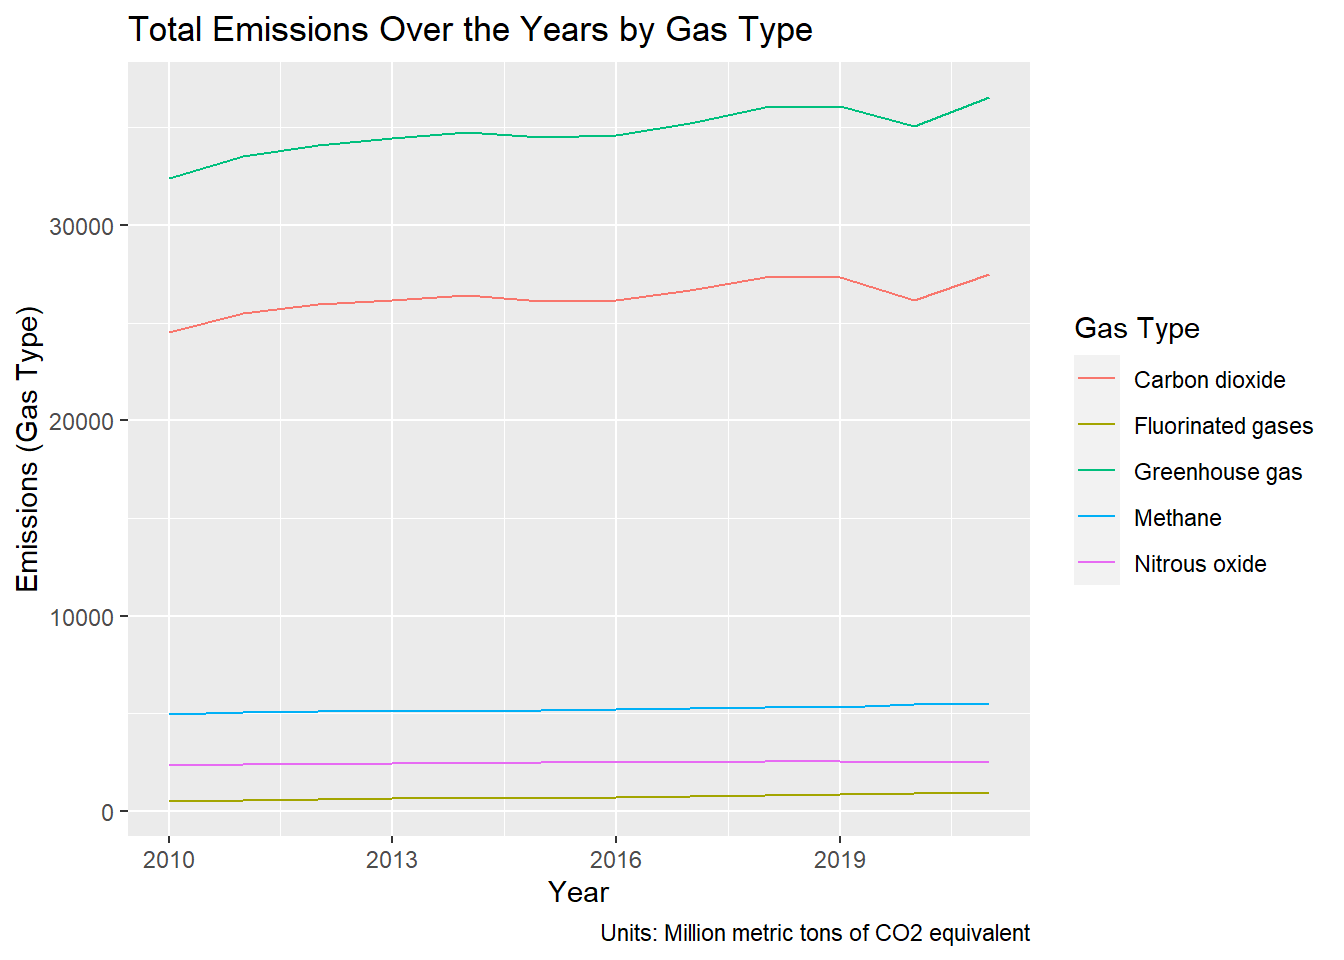
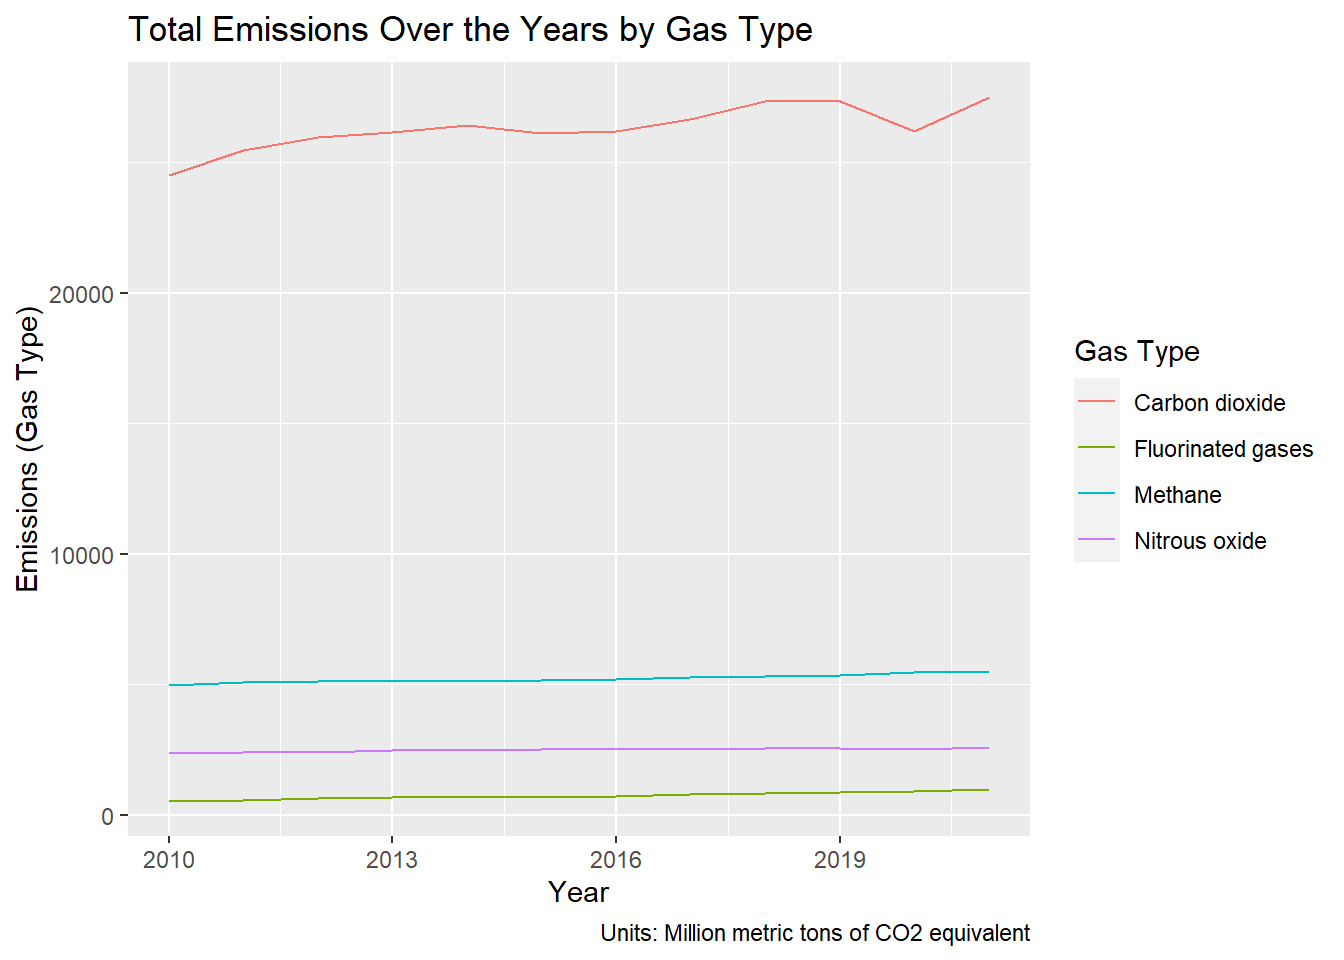
update datastory

diff --git a/datastory.html b/datastory.html
@@ -7,7 +7,7 @@
 <meta name="viewport" content="width=device-width, initial-scale=1.0, user-scalable=yes">
 
 
-<title>Ho Zhi Yi - Who’s responsible?</title>
+<title>Ho Zhi Yi - Greenhouse Gas Emissions Trend</title>
 <style>
 code{white-space: pre-wrap;}
 span.smallcaps{font-variant: small-caps;}
@@ -125,6 +125,11 @@ ul.task-list li input[type="checkbox"] {
   <li><a href="#gas-type-against-time" id="toc-gas-type-against-time" class="nav-link" data-scroll-target="#gas-type-against-time">2. Gas Type against Time</a></li>
   <li><a href="#region-against-time" id="toc-region-against-time" class="nav-link" data-scroll-target="#region-against-time">3. Region against Time</a></li>
   </ul></li>
+  <li><a href="#bar-plots" id="toc-bar-plots" class="nav-link" data-scroll-target="#bar-plots">Bar Plots</a>
+  <ul class="collapse">
+  <li><a href="#gas-type-against-industry" id="toc-gas-type-against-industry" class="nav-link" data-scroll-target="#gas-type-against-industry">1. Gas Type against Industry</a></li>
+  <li><a href="#gas-type-against-region" id="toc-gas-type-against-region" class="nav-link" data-scroll-target="#gas-type-against-region">2. Gas Type against Region</a></li>
+  </ul></li>
   </ul></li>
   </ul>
 </nav>
@@ -134,7 +139,7 @@ ul.task-list li input[type="checkbox"] {
 
 <header id="title-block-header" class="quarto-title-block default">
 <div class="quarto-title">
-<h1 class="title">Who’s responsible?</h1>
+<h1 class="title">Greenhouse Gas Emissions Trend</h1>
 </div>
 
 
@@ -160,17 +165,12 @@ ul.task-list li input[type="checkbox"] {
 <p>We will be analyzing Greenhouse Gas Emissions Trends based on the Industry, Region and Gas Types shown in the table below:</p>
 <table class="table">
 <colgroup>
-<col style="width: 59%">
-<col style="width: 15%">
-<col style="width: 24%">
+<col style="width: 33%">
+<col style="width: 66%">
 </colgroup>
 <tbody>
 <tr class="odd">
 <td><strong>Industry</strong></td>
-<td><strong>Region</strong></td>
-<td><strong>Gas Types</strong></td>
-</tr>
-<tr class="even">
 <td><ol type="1">
 <li>Manufacturing</li>
 <li>Electricity, Gas, Steam and Air Conditioning Supply</li>
@@ -178,6 +178,9 @@ ul.task-list li input[type="checkbox"] {
 <li>Agriculture, Forestry and Fishing</li>
 <li>Construction</li>
 </ol></td>
+</tr>
+<tr class="even">
+<td><strong>Region</strong></td>
 <td><ol type="1">
 <li>Africa</li>
 <li>Americas</li>
@@ -185,10 +188,12 @@ ul.task-list li input[type="checkbox"] {
 <li>Europe</li>
 <li>Oceania</li>
 </ol></td>
+</tr>
+<tr class="odd">
+<td><strong>Gas Types</strong></td>
 <td><ol type="1">
 <li>Carbon dioxide</li>
 <li>Fluorinated gases</li>
-<li>Greenhouse gas</li>
 <li>Methane</li>
 <li>Nitrous oxide</li>
 </ol></td>
@@ -245,9 +250,24 @@ ul.task-list li input[type="checkbox"] {
 <h4 class="anchored" data-anchor-id="emissions-over-the-years-by-region">Emissions Over the Years by Region</h4>
 <iframe height="400" width="105%" frameborder="no" src="https://zhizyii.shinyapps.io/shinyapp3/">
 </iframe>
-
-
 </section>
+</section>
+</section>
+<section id="bar-plots" class="level2">
+<h2 class="anchored" data-anchor-id="bar-plots">Bar Plots</h2>
+<section id="gas-type-against-industry" class="level3">
+<h3 class="anchored" data-anchor-id="gas-type-against-industry">1. Gas Type against Industry</h3>
+<p>From the plots below, we can see how the total emissions of each gas type vary across different industries.</p>
+<iframe height="400" width="105%" frameborder="no" src="https://zhizyii.shinyapps.io/shinyapp4/">
+</iframe>
+</section>
+<section id="gas-type-against-region" class="level3">
+<h3 class="anchored" data-anchor-id="gas-type-against-region">2. Gas Type against Region</h3>
+<p>From the plots below, we can see how the total emissions of each gas type vary across different regions.</p>
+<iframe height="400" width="105%" frameborder="no" src="https://zhizyii.shinyapps.io/shinyapp6/">
+</iframe>
+
+
 </section>
 </section>
 </section>

diff --git a/finalproject.html b/finalproject.html
@@ -117,6 +117,9 @@ ul.task-list li input[type="checkbox"] {
   <ul>
   <li><a href="#week-9" id="toc-week-9" class="nav-link active" data-scroll-target="#week-9">Week 9</a></li>
   <li><a href="#week-10" id="toc-week-10" class="nav-link" data-scroll-target="#week-10">Week 10</a></li>
+  <li><a href="#week-11" id="toc-week-11" class="nav-link" data-scroll-target="#week-11">Week 11</a></li>
+  <li><a href="#week-12" id="toc-week-12" class="nav-link" data-scroll-target="#week-12">Week 12</a></li>
+  <li><a href="#week-13" id="toc-week-13" class="nav-link" data-scroll-target="#week-13">Week 13</a></li>
   </ul>
 </nav>
     </div>
@@ -162,11 +165,56 @@ ul.task-list li input[type="checkbox"] {
 <tbody>
 <tr class="odd">
 <td>PDF version</td>
-<td><a href="https://github.com/zhizyii/NM2207/blob/main/week%209/Week-9-document.pdf">Week-10-documentations.pdf</a> (not avail yet)</td>
+<td><a href="https://github.com/zhizyii/NM2207/blob/main/week%2010/Week-10-document.pdf">Week-10-documentations.pdf</a></td>
 </tr>
 <tr class="even">
 <td>R Markdown Version</td>
-<td><a href="https://github.com/zhizyii/NM2207/blob/main/week%209/Week-9-document.Rmd">Week-10-documentations.rmd</a> (not avail yet)</td>
+<td><a href="https://github.com/zhizyii/NM2207/blob/main/week%2010/Week-10-document.Rmd">Week-10-documentations.rmd</a></td>
+</tr>
+</tbody>
+</table>
+</section>
+<section id="week-11" class="level2">
+<h2 class="anchored" data-anchor-id="week-11">Week 11</h2>
+<table class="table">
+<tbody>
+<tr class="odd">
+<td>PDF version</td>
+<td></td>
+</tr>
+<tr class="even">
+<td>R Markdown Version</td>
+<td></td>
+</tr>
+</tbody>
+</table>
+</section>
+<section id="week-12" class="level2">
+<h2 class="anchored" data-anchor-id="week-12">Week 12</h2>
+<table class="table">
+<tbody>
+<tr class="odd">
+<td>PDF version</td>
+<td></td>
+</tr>
+<tr class="even">
+<td>R Markdown Version</td>
+<td></td>
+</tr>
+</tbody>
+</table>
+</section>
+<section id="week-13" class="level2">
+<h2 class="anchored" data-anchor-id="week-13">Week 13</h2>
+<table class="table">
+<tbody>
+<tr class="odd">
+<td>PDF version</td>
+<td></td>
+</tr>
+<tr class="even">
+<td>R Markdown Version</td>
+<td></td>
 </tr>
 </tbody>
 </table>
